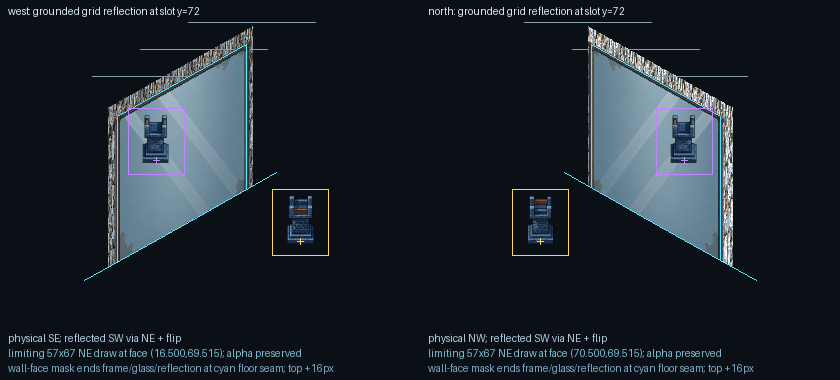
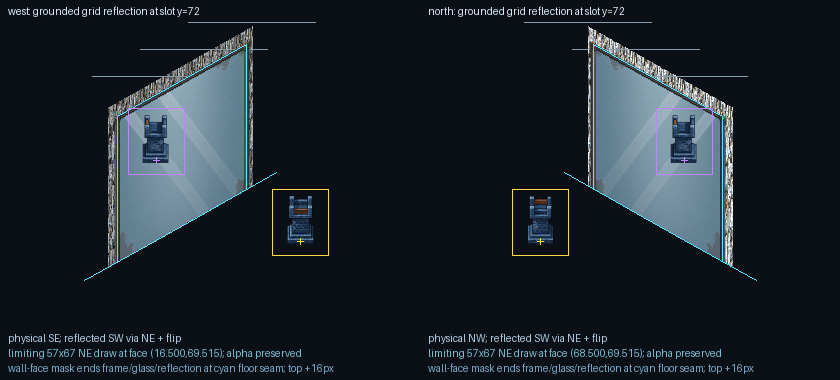
Fix multi-wall mirror seam compositing

diff --git a/backend/grandGalleryRender.test.js b/backend/grandGalleryRender.test.js
@@ -1,0 +1,216 @@
+const assert = require('node:assert/strict');
+const path = require('node:path');
+const { test } = require('node:test');
+const { createCanvas, loadImage } = require('@napi-rs/canvas');
+const {
+  WALL_ART_SLOT_DATUM,
+  TILE_STEP_X,
+  boardDrawOps,
+  roadEdgeKey,
+  wallArt,
+  wallDecorAsset,
+} = require('@chess-tactics/board-render');
+const { paintBoardThumbnailOp } = require('./boardThumbnail');
+
+const FRONTEND_PUBLIC = path.resolve(__dirname, '..', 'frontend', 'public');
+const FIXED_BOUNDS = { minX: -256, minY: -384, width: 512, height: 640 };
+const GALLERY_ART_ID = 'mirror-grand-gallery-wall';
+const imageCache = new Map();
+
+function edgeFor(face, index) {
+  return face === 'west'
+    ? roadEdgeKey(0, index, -1, index)
+    : roadEdgeKey(index, 0, index, -1);
+}
+
+function galleryOps(face) {
+  const edges = [0, 1, 2].map((index) => edgeFor(face, index));
+  const board = {
+    cols: 4,
+    rows: 4,
+    cells: {},
+    units: {},
+    doodads: {},
+    props: {},
+    cover: {},
+    features: {},
+    featureCuts: {},
+    featureExits: {},
+    walls: Object.fromEntries(edges.map((edge) => [edge, 'stone'])),
+    wallArt: { [edges[0]]: GALLERY_ART_ID },
+  };
+  const faceAsset = wallDecorAsset('mirror-grand-gallery').faces[face];
+  const acceptedSources = new Set([faceAsset.src, faceAsset.glassSrc]);
+  const allOps = boardDrawOps(board);
+  const ops = allOps.filter((op) => acceptedSources.has(op.src));
+  assert.equal(ops.filter((op) => op.src === faceAsset.glassSrc).length, 3);
+  assert.equal(ops.filter((op) => op.src === faceAsset.src).length, 3);
+  return { allOps, faceAsset, ops };
+}
+
+async function shippedImage(src) {
+  if (!imageCache.has(src)) {
+    const absolutePath = path.join(FRONTEND_PUBLIC, ...src.replace(/^\/+/, '').split('/'));
+    imageCache.set(src, loadImage(absolutePath));
+  }
+  return imageCache.get(src);
+}
+
+async function renderOps(ops) {
+  const canvas = createCanvas(FIXED_BOUNDS.width, FIXED_BOUNDS.height);
+  const ctx = canvas.getContext('2d');
+  ctx.imageSmoothingEnabled = false;
+  for (const op of ops) {
+    paintBoardThumbnailOp(
+      ctx,
+      await shippedImage(op.src),
+      op,
+      0,
+      0,
+      FIXED_BOUNDS,
+      1,
+    );
+  }
+  return ctx.getImageData(0, 0, canvas.width, canvas.height);
+}
+
+function unionReference(ops, faceAsset) {
+  return [faceAsset.glassSrc, faceAsset.src].map((src) => {
+    const segments = ops.filter((op) => op.src === src);
+    return {
+      ...segments[0],
+      clipPolygons: segments.flatMap((op) => op.clipPolygons ?? []),
+    };
+  });
+}
+
+function pixelDifference(actual, expected, horizontalFlip = false) {
+  assert.equal(actual.width, expected.width);
+  assert.equal(actual.height, expected.height);
+  let pixels = 0;
+  let channels = 0;
+  let first = null;
+  for (let y = 0; y < actual.height; y += 1) {
+    for (let x = 0; x < actual.width; x += 1) {
+      const actualOffset = (y * actual.width + x) * 4;
+      const expectedX = horizontalFlip ? expected.width - 1 - x : x;
+      const expectedOffset = (y * expected.width + expectedX) * 4;
+      let pixelDiffers = false;
+      for (let channel = 0; channel < 4; channel += 1) {
+        if (actual.data[actualOffset + channel] === expected.data[expectedOffset + channel]) continue;
+        channels += 1;
+        pixelDiffers = true;
+      }
+      if (!pixelDiffers) continue;
+      pixels += 1;
+      first ??= {
+        worldX: x + FIXED_BOUNDS.minX,
+        worldY: y + FIXED_BOUNDS.minY,
+        actual: [...actual.data.slice(actualOffset, actualOffset + 4)],
+        expected: [...expected.data.slice(expectedOffset, expectedOffset + 4)],
+      };
+    }
+  }
+  return { pixels, channels, first };
+}
+
+function assertPixelExact(actual, expected, label, horizontalFlip = false) {
+  const difference = pixelDifference(actual, expected, horizontalFlip);
+  assert.deepEqual(difference, { pixels: 0, channels: 0, first: null }, `${label}: ${JSON.stringify(difference)}`);
+}
+
+function pixelAt(image, worldX, worldY) {
+  const x = worldX - FIXED_BOUNDS.minX;
+  const y = worldY - FIXED_BOUNDS.minY;
+  const offset = (y * image.width + x) * 4;
+  return [...image.data.slice(offset, offset + 4)];
+}
+
+function seamLeakage(production, wallOnly, continuous, face) {
+  let candidates = 0;
+  const leaks = [];
+  const direction = face === 'west' ? -1 : 1;
+  for (const boundary of [TILE_STEP_X, TILE_STEP_X * 2]) {
+    for (let offset = -1; offset <= 1; offset += 1) {
+      const worldX = direction * boundary + offset;
+      for (let worldY = -240; worldY <= 64; worldY += 1) {
+        const wallPixel = pixelAt(wallOnly, worldX, worldY);
+        const continuousPixel = pixelAt(continuous, worldX, worldY);
+        if (continuousPixel.every((value, channel) => value === wallPixel[channel])) continue;
+        candidates += 1;
+        const productionPixel = pixelAt(production, worldX, worldY);
+        if (productionPixel.every((value, channel) => value === wallPixel[channel])) {
+          leaks.push({ worldX, worldY, wallPixel, productionPixel, continuousPixel });
+        }
+      }
+    }
+  }
+  return { candidates, leaks };
+}
+
+async function rawPixels(src) {
+  const image = await shippedImage(src);
+  const canvas = createCanvas(image.width, image.height);
+  const ctx = canvas.getContext('2d');
+  ctx.drawImage(image, 0, 0);
+  return ctx.getImageData(0, 0, canvas.width, canvas.height);
+}
+
+test('Grand Gallery shipped north art is the exact horizontal counterpart of west', async () => {
+  const asset = wallDecorAsset('mirror-grand-gallery');
+  assert.equal(asset.faces.north.width, asset.faces.west.width);
+  assert.equal(asset.faces.north.height, asset.faces.west.height);
+
+  for (const layer of ['src', 'glassSrc']) {
+    const west = await rawPixels(asset.faces.west[layer]);
+    const north = await rawPixels(asset.faces.north[layer]);
+    assertPixelExact(west, north, `shipped ${layer}`, true);
+  }
+
+  const slots = wallArt(GALLERY_ART_ID).slots;
+  const westSlot = slots.find((slot) => slot.face === 'west');
+  const northSlot = slots.find((slot) => slot.face === 'north');
+  assert.equal(northSlot.x, 2 * WALL_ART_SLOT_DATUM.anchorX - westSlot.x, 'north mount x must complement west around the wall datum');
+  assert.equal(asset.faces.north.mountX, asset.faces.north.width - asset.faces.west.mountX, 'north source mount must complement west');
+});
+
+for (const face of ['west', 'north']) {
+  test(`Grand Gallery ${face} segmented production paint never exposes wall pixels at internal seams`, async () => {
+    const { allOps, faceAsset, ops } = galleryOps(face);
+    const mirrorSources = new Set([faceAsset.src, faceAsset.glassSrc]);
+    const wallOps = allOps.filter((op) => !mirrorSources.has(op.src));
+    const production = await renderOps(allOps);
+    const wallOnly = await renderOps(wallOps);
+    const continuous = await renderOps([...wallOps, ...unionReference(ops, faceAsset)]);
+    const result = seamLeakage(production, wallOnly, continuous, face);
+    assert.ok(result.candidates > 100, `${face} seam probe must cover mirror-painted reference pixels`);
+    assert.deepEqual(result.leaks, [], `${face} exposed underlying wall pixels: ${JSON.stringify(result.leaks.slice(0, 5))}`);
+  });
+}
+
+test('Grand Gallery production placement preserves exact north/west pixel and x-complement parity', async () => {
+  const west = galleryOps('west');
+  const north = galleryOps('north');
+
+  for (const layer of ['src', 'glassSrc']) {
+    const westOp = west.ops.find((op) => op.src === west.faceAsset[layer]);
+    const northOp = north.ops.find((op) => op.src === north.faceAsset[layer]);
+    assert.equal(northOp.dx, -westOp.dx - westOp.dw, `${layer} north x must complement west around world x=0`);
+    assert.equal(northOp.dy, westOp.dy, `${layer} face y must match`);
+    const westPixels = await renderOps([{ ...westOp, clipPolygons: undefined }]);
+    const northPixels = await renderOps([{ ...northOp, clipPolygons: undefined }]);
+    assertPixelExact(westPixels, northPixels, `${layer} unclipped production paint`, true);
+  }
+
+  for (let segment = 0; segment < 3; segment += 1) {
+    const westClip = west.ops.filter((op) => op.src === west.faceAsset.glassSrc)[segment].clipPolygons[0];
+    const northClip = north.ops.filter((op) => op.src === north.faceAsset.glassSrc)[segment].clipPolygons[0];
+    const westPoints = [];
+    const northPoints = [];
+    for (let index = 0; index < westClip.length; index += 2) {
+      westPoints.push(`${(-westClip[index]).toFixed(6)},${westClip[index + 1].toFixed(6)}`);
+      northPoints.push(`${northClip[index].toFixed(6)},${northClip[index + 1].toFixed(6)}`);
+    }
+    assert.deepEqual(northPoints.sort(), westPoints.sort(), `segment ${segment} clip must complement around world x=0`);
+  }
+});

diff --git a/frontend/src/render/mirrorReflection.test.ts b/frontend/src/render/mirrorReflection.test.ts
@@ -286,6 +286,29 @@ describe('aperture clipping and continuous spans', () => {
       { x: 3, y: 0 },
     ]);
     expect(north[0].segments.every((segment) => segment.apertureClip.length >= 6)).toBe(true);
+
+    for (const surface of [surfaces[0], north[0]]) {
+      for (let index = 1; index < surface.segments.length; index += 1) {
+        const previousSupport = polygonBounds(surface.segments[index - 1].supportPolygon);
+        const laterSupport = polygonBounds(surface.segments[index].supportPolygon);
+        const supportOverlap = Math.min(previousSupport.left + previousSupport.width, laterSupport.left + laterSupport.width)
+          - Math.max(previousSupport.left, laterSupport.left);
+        expect(supportOverlap, `${surface.face} support seam ${index}`).toBeCloseTo(1);
+
+        const previousAperture = polygonBounds(surface.segments[index - 1].apertureClip);
+        const laterAperture = polygonBounds(surface.segments[index].apertureClip);
+        const apertureOverlap = Math.min(previousAperture.left + previousAperture.width, laterAperture.left + laterAperture.width)
+          - Math.max(previousAperture.left, laterAperture.left);
+        expect(apertureOverlap, `${surface.face} aperture seam ${index}`).toBeCloseTo(1);
+
+        const polygon = surface.segments[index].supportPolygon;
+        for (const pointIndex of [4, 6]) {
+          expect(polygon[pointIndex + 1]).toBeCloseTo(
+            mirrorWallFloorBoundaryY(surface.face, polygon[pointIndex]),
+          );
+        }
+      }
+    }
   });
 
   it('uses one tall canonical wall geometry and a stable base-relative art datum', () => {
@@ -304,7 +327,7 @@ describe('aperture clipping and continuous spans', () => {
     const gallery = wallArt('mirror-grand-gallery-wall')!;
     expect(gallery.slots.map(({ face, x, y, scale }) => ({ face, x, y, scale }))).toEqual([
       { face: 'west', x: 42, y: 72, scale: 1 },
-      { face: 'north', x: 84, y: 72, scale: 1 },
+      { face: 'north', x: 86, y: 72, scale: 1 },
     ]);
   });
 

diff --git a/packages/board-render/src/render/mirrorReflection.ts b/packages/board-render/src/render/mirrorReflection.ts
@@ -278,7 +278,17 @@ export function mirrorSegmentSupportPolygon(
   segmentIndex: number,
   segmentCount: number,
 ): number[] {
-  const { start, end } = wallArtSegmentBoundary(target, segmentIndex, segmentCount);
+  let { start, end } = wallArtSegmentBoundary(target, segmentIndex, segmentCount);
+  if (segmentIndex > 0) {
+    // Canvas clips are half-open at raster boundaries. Exact-abutting depth slices leave the
+    // shared west edge uncovered after the next wall tile paints, exposing a one-pixel wall seam.
+    // Let the later (nearer) slice own one horizontal canvas pixel of its predecessor. Moving
+    // along the wall tangent keeps the adjusted bottom edge exactly on the wall/floor seam.
+    start = {
+      left: start.left + (target.face === 'west' ? 1 : -1),
+      top: start.top - TILE_STEP_Y / TILE_STEP_X,
+    };
+  }
   return [
     start.left, start.top - SEGMENT_VERTICAL_EXTENT,
     end.left, end.top - SEGMENT_VERTICAL_EXTENT,

diff --git a/frontend/scripts/build-wall-decor.py b/frontend/scripts/build-wall-decor.py
@@ -221,7 +221,7 @@ ASSETS = [
         # lower rail at the projected wall/floor datum so every physical-silhouette grid-axis
         # crossing reaches glass. The canonical wall supplies all required headroom above it.
         "west_target": (42, 72),
-        "north_target": (84, 72),
+        "north_target": (86, 72),
         "full_unit_aperture": True,
         "glass_aperture": (
             (0.05, 0.04), (0.95, 0.04), (0.95, 0.96), (0.05, 0.96),

diff --git a/docs/adr/0087-grand-gallery-wall-faces-are-exact-visual-counterparts.md b/docs/adr/0087-grand-gallery-wall-faces-are-exact-visual-counterparts.md
@@ -20,6 +20,10 @@ Grand Gallery's west projected face is the canonical emitted material. Its north
 is the pixel-exact horizontal counterpart of west, for both the generated frame and generated
 glass layers.
 
+Asset parity alone is insufficient: Grand Gallery is depth-partitioned into one draw slice per
+supporting wall. Exact-abutting canvas clips allowed the next west wall tile to repaint their
+shared raster column, producing two stone-colored seams in the otherwise continuous mirror.
+
 The bake and manifest obey these rules:
 
 1. North frame and glass pixels equal the horizontally mirrored west pixels at every RGBA sample.
@@ -30,12 +34,22 @@ The bake and manifest obey these rules:
    reflected seats, piece facing, 1:1 scale, wall support, or floor occlusion.
 5. The generation gate compares the emitted north frame and glass against mirrored west pixels
    and fails on any difference.
+6. Runtime north and west slot X values are complements around the shared wall-art datum; slot Y
+   remains equal. Grand Gallery therefore mounts at `x=42` west and `x=86` north around datum
+   `x=64`.
+7. Per-wall depth ordering remains intact. Each later mirror slice owns a one-canvas-pixel overlap
+   backward along the wall tangent so a subsequently painted wall cannot leak through a shared
+   clip edge. The overlap follows the wall slope and may not cross the wall/floor boundary.
+8. A production-raster regression renders the shipped frame, glass, supporting walls, and real
+   depth interleave on both faces. It fails if an internal seam exposes any underlying wall pixel.
 
 ### Consequences
 
 - Good: Grand Gallery reads as the same generated mirror on either perimeter-wall face.
 - Good: directional sheen, weathering, frame edges, aperture, and mount geometry cannot drift
   independently between faces.
+- Good: the continuous three-wall surface cannot regress to exact-abutting clip seams while its
+  source PNGs still pass.
 - Cost: north is intentionally derived from west rather than independently projected from the
   front-facing source.
 

diff --git a/docs/adr/decision-log.md b/docs/adr/decision-log.md
@@ -116,4 +116,4 @@ Small, low-risk calls not worth a full record:
 | [0084](0084-full-body-mirrors-prove-grounded-board-axis-line-of-sight.md) | A full-body mirror must pass two independent gates: the exact virtual raster remains fully contained at its ADR-0083 seat, and every opaque physical billboard pixel translated along the west grid-X or north grid-Y normal must cross both authored glass and a real supporting-wall segment. Grand Gallery's lower rail is grounded at slot y=72 and generated frame/glass grows upward; lifting the whole mirror to y=-4 to chase the virtual raster is retired. Studio shows the exhaustive hit silhouette plus representative rays; no viewer/camera model is introduced. Small authored mirrors retain ADR-0083 cropping | superseded by [0085](0085-mirror-surfaces-end-at-the-wall-floor-boundary.md) | 2026-07-12 |
 | [0085](0085-mirror-surfaces-end-at-the-wall-floor-boundary.md) | Every mirror frame, glass layer, and live reflection is clipped to the union of its actual supporting wall-face segments, capped at the generated wall's projected back-edge/floor seam so the boundary tile owns all below-seam pixels. Exhaustive board-axis LOS classifies each opaque physical pixel separately as supported glass, valid floor occlusion, outside glass, unsupported, or invalid; a full-body proof requires supported-glass plus floor-occluded to equal the visible total with no failures. Exact 1:1 virtual placement, size, facing, floor anchor, and authored-aperture containment remain unchanged | accepted | 2026-07-12 |
 | [0086](0086-all-perimeter-walls-use-full-height-geometry.md) | Every north and west perimeter wall uses one canonical full-height generated geometry regardless of wall art. Grand Gallery remains an uncropped full-body aperture with exact 1:1 position, raster size, facing, and floor contact; small mirrors retain authored aperture cropping. Mirror-only wall variants and the ordinary short runtime wall lane are retired end to end. Logical wall edges, anchors, corridors, and ADR-0085's wall-floor support seam remain unchanged | accepted | 2026-07-12 |
-| [0087](0087-grand-gallery-wall-faces-are-exact-visual-counterparts.md) | Grand Gallery's north generated frame and glass are the pixel-exact horizontal counterparts of west. Mount and aperture geometry mirror with the pixels; board-grid reflection, 1:1 scale, facing, wall support, and floor occlusion remain unchanged. The generation gate rejects any north/west pixel drift | accepted | 2026-07-12 |
+| [0087](0087-grand-gallery-wall-faces-are-exact-visual-counterparts.md) | Grand Gallery's north generated frame and glass are the pixel-exact horizontal counterparts of west. Mount, aperture, and runtime slot geometry mirror around the shared wall-art datum. Multi-wall depth slices overlap one canvas pixel backward along the wall tangent without crossing the floor seam, and a production-raster regression rejects any internal wall-pixel leak. Board-grid reflection, 1:1 scale, facing, wall support, and floor occlusion remain unchanged | accepted | 2026-07-12 |